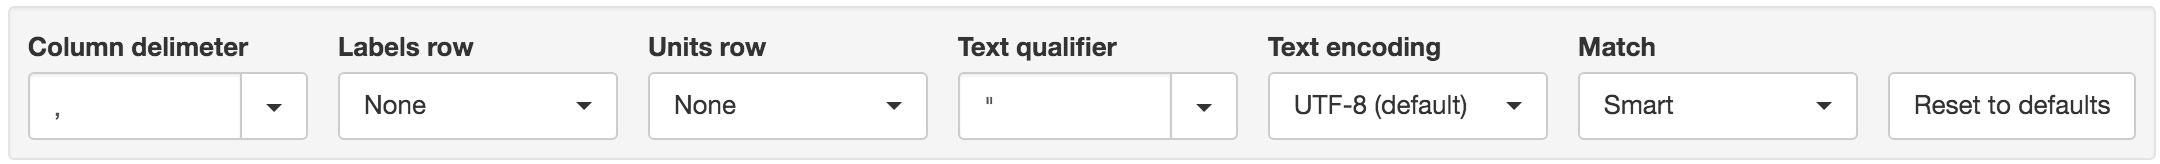
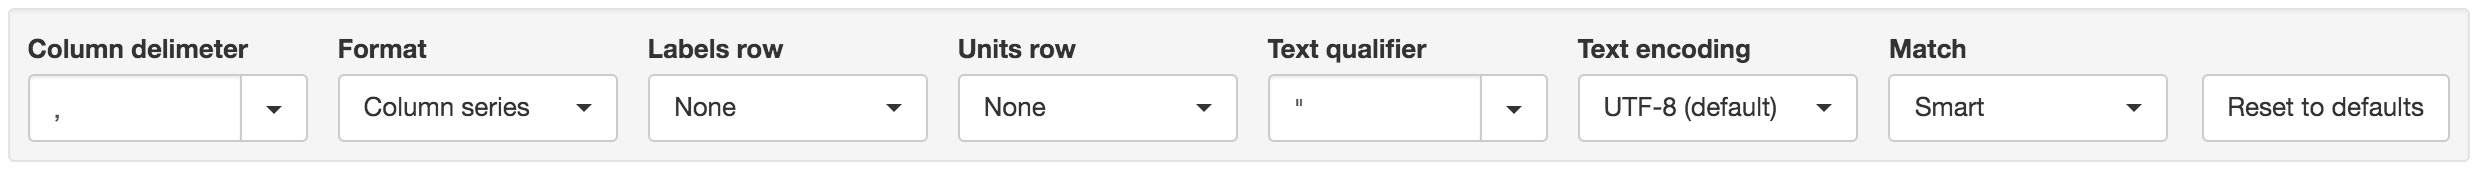
update text parser for 'Row series' format

diff --git a/source/topics/nodes/datasource_file/index.rst b/source/topics/nodes/datasource_file/index.rst
@@ -398,6 +398,11 @@ General settings are used to specify file format and encoding options.
 Column delimiter
 	Specify the :term:`delimiter` used to separate values in each line of the file. Select a delimiter from the drop down or enter a custom character to use.
 
+Format
+	Select the record format of the file. 
+	*Column series* should be used when each column in the file represents a single series or sensor. 
+	*Row series* should be used when each row (line) in the file represents a single series or sensor.
+
 Labels row
 	If your file contains a labels header row, you can specify the corresponding line number or click the row number in the Parser Preview. The corresponding row will be highlighted *BLUE* and the column values will be used as the column labels. Labels are shown for convenience, but you can assign any valid names to the parameters during or after creation.
 
@@ -422,7 +427,11 @@ Reset to defaults
     
 File Contents
 ~~~~~~~~~~~~~
-The Parser extracts a sample from the beginning of the input text file and attempts to split the file into columns based on the current Column delimiter.
+The Parser extracts a sample from the beginning of the input text file and attempts to split the file into columns based on the current Column delimiter and Format.
+
+Column Series Format
+```````````````````````
+This format should be used when each column represents a single series or sensor. Every row is considered a record and must contain a timestamp. 
 
 *Input Text File*
 
@@ -432,7 +441,7 @@ The Parser extracts a sample from the beginning of the input text file and attem
 
 .. only:: not latex
 
-	.. image:: parser_file_01.png
+	.. image:: parser_file_column.jpg
 		:scale: 50 %
 
 	| 
@@ -441,7 +450,7 @@ The Parser extracts a sample from the beginning of the input text file and attem
 	
 	| 
 
-	.. image:: parser_file_01.png
+	.. image:: parser_file_column.jpg
 		:scale: 50 %
 
 *Parser Preview*
@@ -452,7 +461,7 @@ The Parser extracts a sample from the beginning of the input text file and attem
 
 .. only:: not latex
 
-	.. image:: parser_preview.jpg
+	.. image:: parser_preview_column.jpg
 		:scale: 50 %
 
 	| 
@@ -461,15 +470,21 @@ The Parser extracts a sample from the beginning of the input text file and attem
 	
 	| 
 
-	.. image:: parser_preview.jpg
+	.. image:: parser_preview_column.jpg
 
 .. only:: not latex
 
     |
-    
-Columns and Data Type Selection
-~~~~~~~~~~~~~~~~~~~~~~~~~~~~~~~
-Columns are assigned a series data type which determine how they should be processed and the type of Parameter that will be available for creation. Use the data type drop down at the top of each column to select a data type from the available options. Columns that does not match the selected series data type are displayed in *RED*. Hover over a table cell in the Parser Preview to display a tooltip (where valid) showing how the raw data will be interpreted by the parser.
+
+
+Row Series Format
+```````````````````````
+This format should be used when each row (line in file) represents a single series or sensor. Every row must contain a timestamp, unique identifier for the sensor (Series ID) and a value.
+The parser preview will only display rows with unique Series ID's. 
+The sample input file may not contain all the possible Series ID's, so you can click the *Add new series* button and enter additional Series ID's as required. 
+Ensure the correct data type is set for each series.
+
+*Input Text File*
 
 .. raw:: latex
 
@@ -477,7 +492,7 @@ Columns are assigned a series data type which determine how they should be proce
 
 .. only:: not latex
 
-	.. image:: parser_column.png
+	.. image:: parser_file_row.jpg
 		:scale: 50 %
 
 	| 
@@ -486,20 +501,93 @@ Columns are assigned a series data type which determine how they should be proce
 	
 	| 
 
-	.. image:: parser_column.png
+	.. image:: parser_file_row.jpg
+		:scale: 50 %
+
+*Parser Preview*
+
+.. raw:: latex
+
+    \vspace{-10pt}
+
+.. only:: not latex
+
+	.. image:: parser_preview_row.jpg
+		:scale: 50 %
+
+	| 
+
+.. only:: latex
+	
+	| 
+
+	.. image:: parser_preview_row.jpg
+
+.. only:: not latex
+
+    |
+    
+Columns and Data Type Selection
+~~~~~~~~~~~~~~~~~~~~~~~~~~~~~~~
+In *Column Series* format, columns are assigned a series data type which determines how they should be processed and the type of Parameter that will be available for creation. 
+
+.. raw:: latex
+
+    \vspace{-10pt}
+
+.. only:: not latex
+
+	.. image:: parser_types_column.jpg
+		:scale: 50 %
+
+	| 
+
+.. only:: latex
+	
+	| 
+
+	.. image:: parser_types_column.jpg
 		:scale: 35 %
 
+In *Row Series* format, columns are assigned as *Record Time*, *Series ID*, *Value* or *Disabled*. 
+The column that is assigned as the *Value* column has individual data types assigned per row.
+
+.. raw:: latex
+
+    \vspace{-10pt}
+
+.. only:: not latex
+
+	.. image:: parser_types_row.jpg
+		:scale: 50 %
+
+	| 
+
+.. only:: latex
+	
+	| 
+
+	.. image:: parser_types_row.jpg
+		:scale: 35 %
+
+Use the data type drop down menu in the column/row to select a data type from the available options. 
+Individual cells that do not match the selected series data type are displayed in *RED*. 
+Hover over a cell in the Parser Preview to display a tooltip (where valid) showing how the raw data will be interpreted by the parser.
+
+Series Data Types
+`````````````````
+
 Number
-	Interpret column data as numeric. Can be created as a Number Parameter and suitable for both analog and digital data.
+	Interpret data as numeric. Can be created as a Number Parameter and suitable for both analog and digital data.
 
 Boolean
-	Interpret column data as Boolean only. Can be created as a special Number Parameter with predefined states and accepts boolean data as text (TRUE or FALSE) or numberic (0 or 1).
+	Interpret data as Boolean only. Can be created as a special Number Parameter with predefined states and accepts boolean data as text (TRUE or FALSE) or numberic (0 or 1).
 
 Text
-	Interpret column data as Text. Create a Text Parameter from the column.
+	Interpret data as Text. Create a Text Parameter from the column.
 
 Time
-	Interpret column data as Time. You need to specify the time format using the Joins and Parser Configuration section. You can create a Time Parameter from the column.
+	Interpret data as Time. You need to specify the time format using the Joins and Parser Configuration section. You can create a Time Parameter from the column.
 
 Disabled
 	The column will be *GREY* in the Parser Preview and will not be available for Parameter creation. Setting an unused column to Disabled is optional. It has been added for convenience when working with files with lots of columns.
@@ -517,7 +605,7 @@ Coordinates
     
 Joins and Parser Configuration
 ~~~~~~~~~~~~~~~~~~~~~~~~~~~~~~
-|icon-properties| The Joins and Parser Configuration section (available from the properties icon at the top of each column) is used to customize the parser for individual columns including joins, formatting and specifying quality data.
+|icon-properties| The Joins and Parser Configuration section (available from the properties icon at the top of each column or in each row of the Value column for Row Series format) is used to customize the parser for individual columns/series including joins, formatting and specifying quality.
 
 Data values in input files are commonly split into separate fields and therefore will be shown as different columns in the Parser Preview. It is necessary to ensure each column you would like to use for Parameter creation has all joins/fields defined.
 
